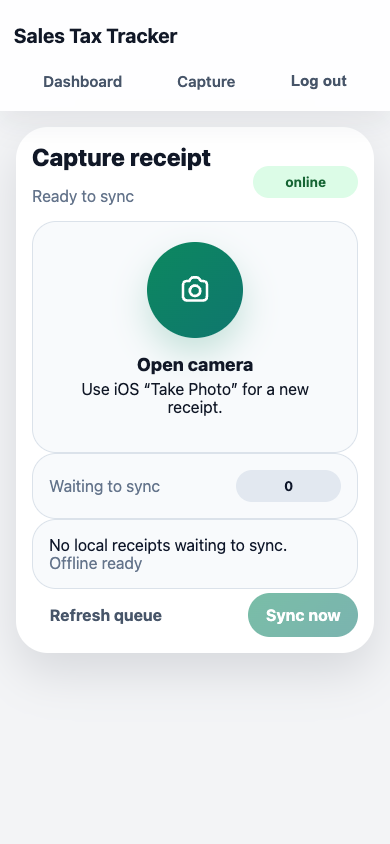
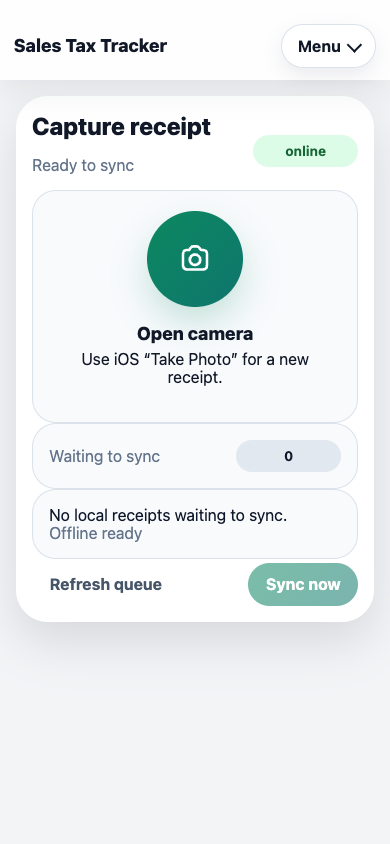
docs: refresh README screenshots and cleanup

diff --git a/README.md b/README.md
@@ -49,11 +49,7 @@ Do not expose this app directly to the public internet without understanding the
 2. Pull the latest published image and start the app:
 
 ```bash
-<<<<<<< HEAD
 docker pull ghcr.io/andrewtmendoza/sales_tax_tracker:latest
-=======
-docker pull ghcr.io/andrewtmendoza/sales_tax_tracker:0.1.1
->>>>>>> origin/main
 docker compose pull
 docker compose up -d
 ```
@@ -189,26 +185,16 @@ ghcr.io/andrewtmendoza/sales_tax_tracker
 
 Tag `vX.Y.Z` publishes:
 
-<<<<<<< HEAD
 - `ghcr.io/andrewtmendoza/sales_tax_tracker:X.Y.Z`
 - `ghcr.io/andrewtmendoza/sales_tax_tracker:X.Y`
 - `ghcr.io/andrewtmendoza/sales_tax_tracker:X`
-=======
-- `ghcr.io/andrewtmendoza/sales_tax_tracker:0.1.1`
-- `ghcr.io/andrewtmendoza/sales_tax_tracker:0.1`
-- `ghcr.io/andrewtmendoza/sales_tax_tracker:0`
->>>>>>> origin/main
 - `ghcr.io/andrewtmendoza/sales_tax_tracker:latest`
 - `ghcr.io/andrewtmendoza/sales_tax_tracker:sha-<shortsha>`
 
 You can inspect the published multi-arch image with:
 
 ```bash
-<<<<<<< HEAD
 docker buildx imagetools inspect ghcr.io/andrewtmendoza/sales_tax_tracker:X.Y.Z
-=======
-docker buildx imagetools inspect ghcr.io/andrewtmendoza/sales_tax_tracker:0.1.1
->>>>>>> origin/main
 ```
 
 ## Versioning